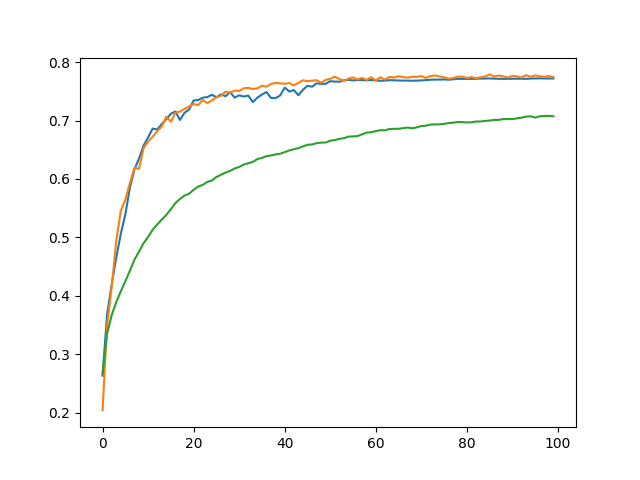
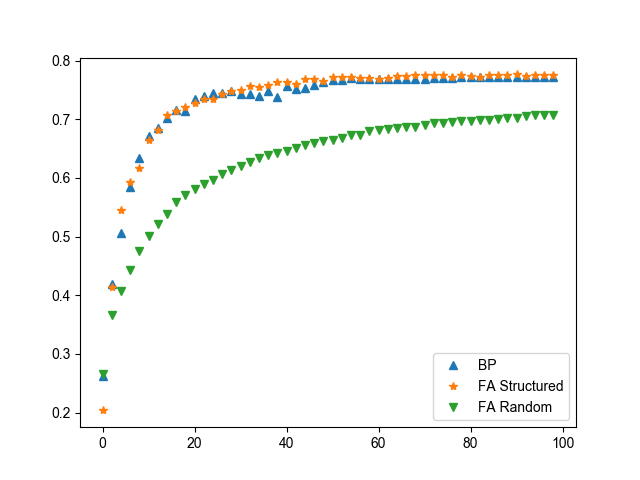
plot stuff

diff --git a/transfer/plot_acc.py b/transfer/plot_acc.py
@@ -5,12 +5,23 @@ import matplotlib.pyplot as plt
 import matplotlib.image as mpimg
 
 weights = np.load('cifar10_conv_weights.npy').item()
-plt.plot(weights['test_acc'])
+x = range(0, 100, 2)
+y = np.array(weights['test_acc'])[x]
+plt.plot(x, y, label='BP', marker='^', linestyle='None')
 
 weights = np.load('cifar10_conv_weights_fa.npy').item()
-plt.plot(weights['test_acc'])
+x = range(0, 100, 2)
+y = np.array(weights['test_acc'])[x]
+plt.plot(x, y, label='FA Structured', marker='*', linestyle='None')
 
 weights = np.load('cifar10_conv_weights_random.npy').item()
-plt.plot(weights['test_acc'])
+x = range(0, 100, 2)
+y = np.array(weights['test_acc'])[x]
+plt.plot(x, y, label='FA Random', marker="v", linestyle='None')
 
+plt.rcParams['font.sans-serif'] = "Arial"
+plt.rcParams['font.family'] = "sans-serif"
+plt.rcParams['font.size'] = 10.
+
+plt.legend()
 plt.savefig('plot_acc.png')
